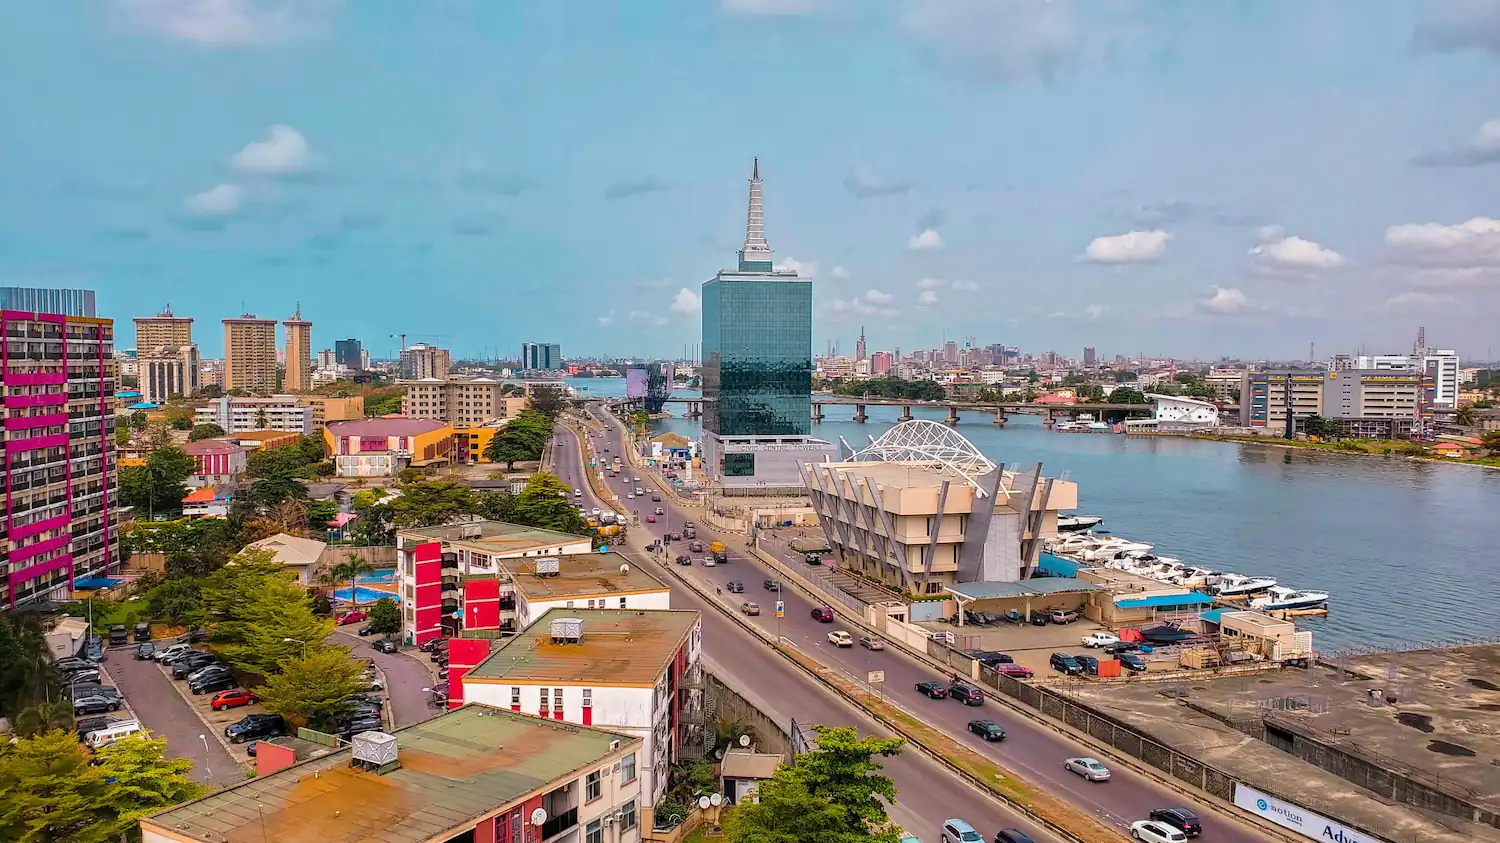
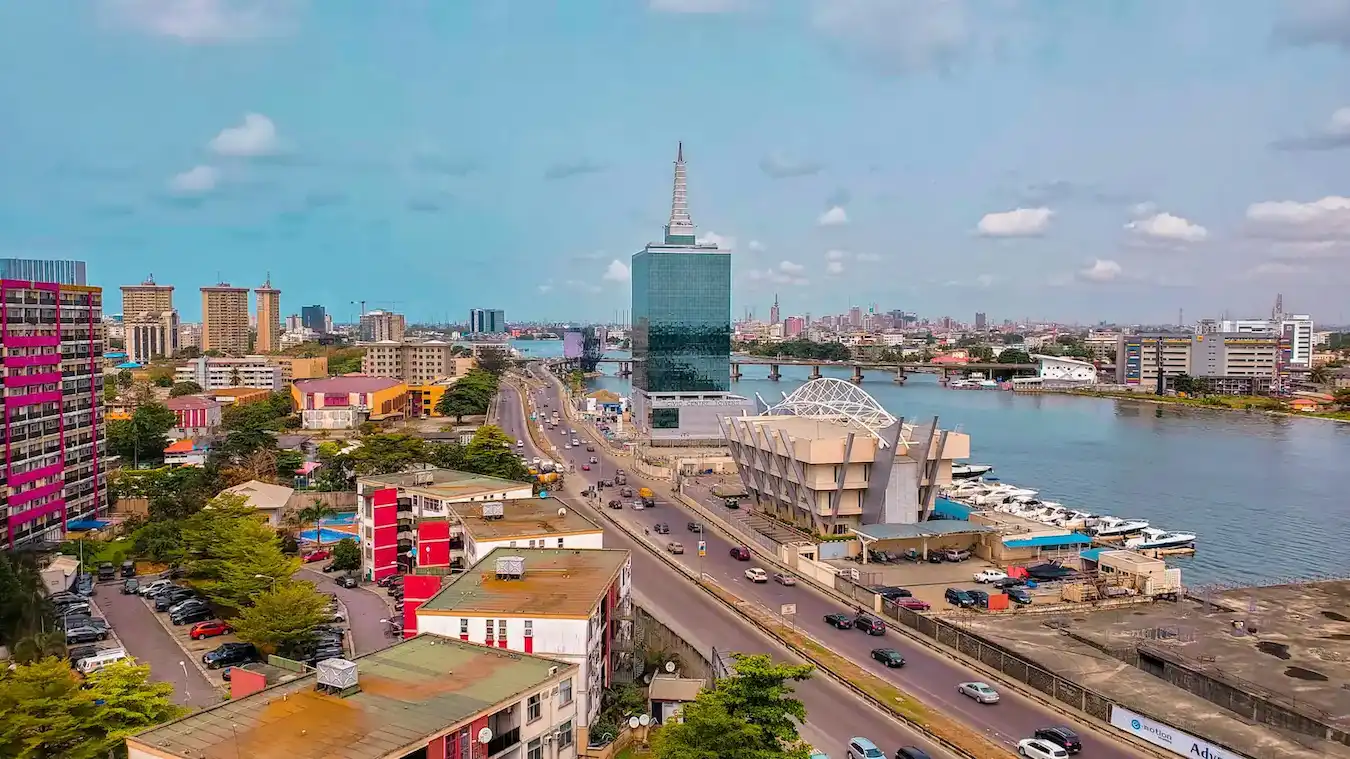
Reduce image size and repeated declaration.

diff --git a/chamber/styles/normalise.css b/chamber/styles/normalise.css
@@ -345,17 +345,17 @@ textarea {
  * Add the correct display in Edge, IE 10+, and Firefox.
  */
 
-details {
+/* details {
     display: block;
-}
+} */
 
 /*
  * Add the correct display in all browsers.
  */
 
-summary {
+/* summary {
     display: list-item;
-}
+} */
 
 /* Misc
    ========================================================================== */